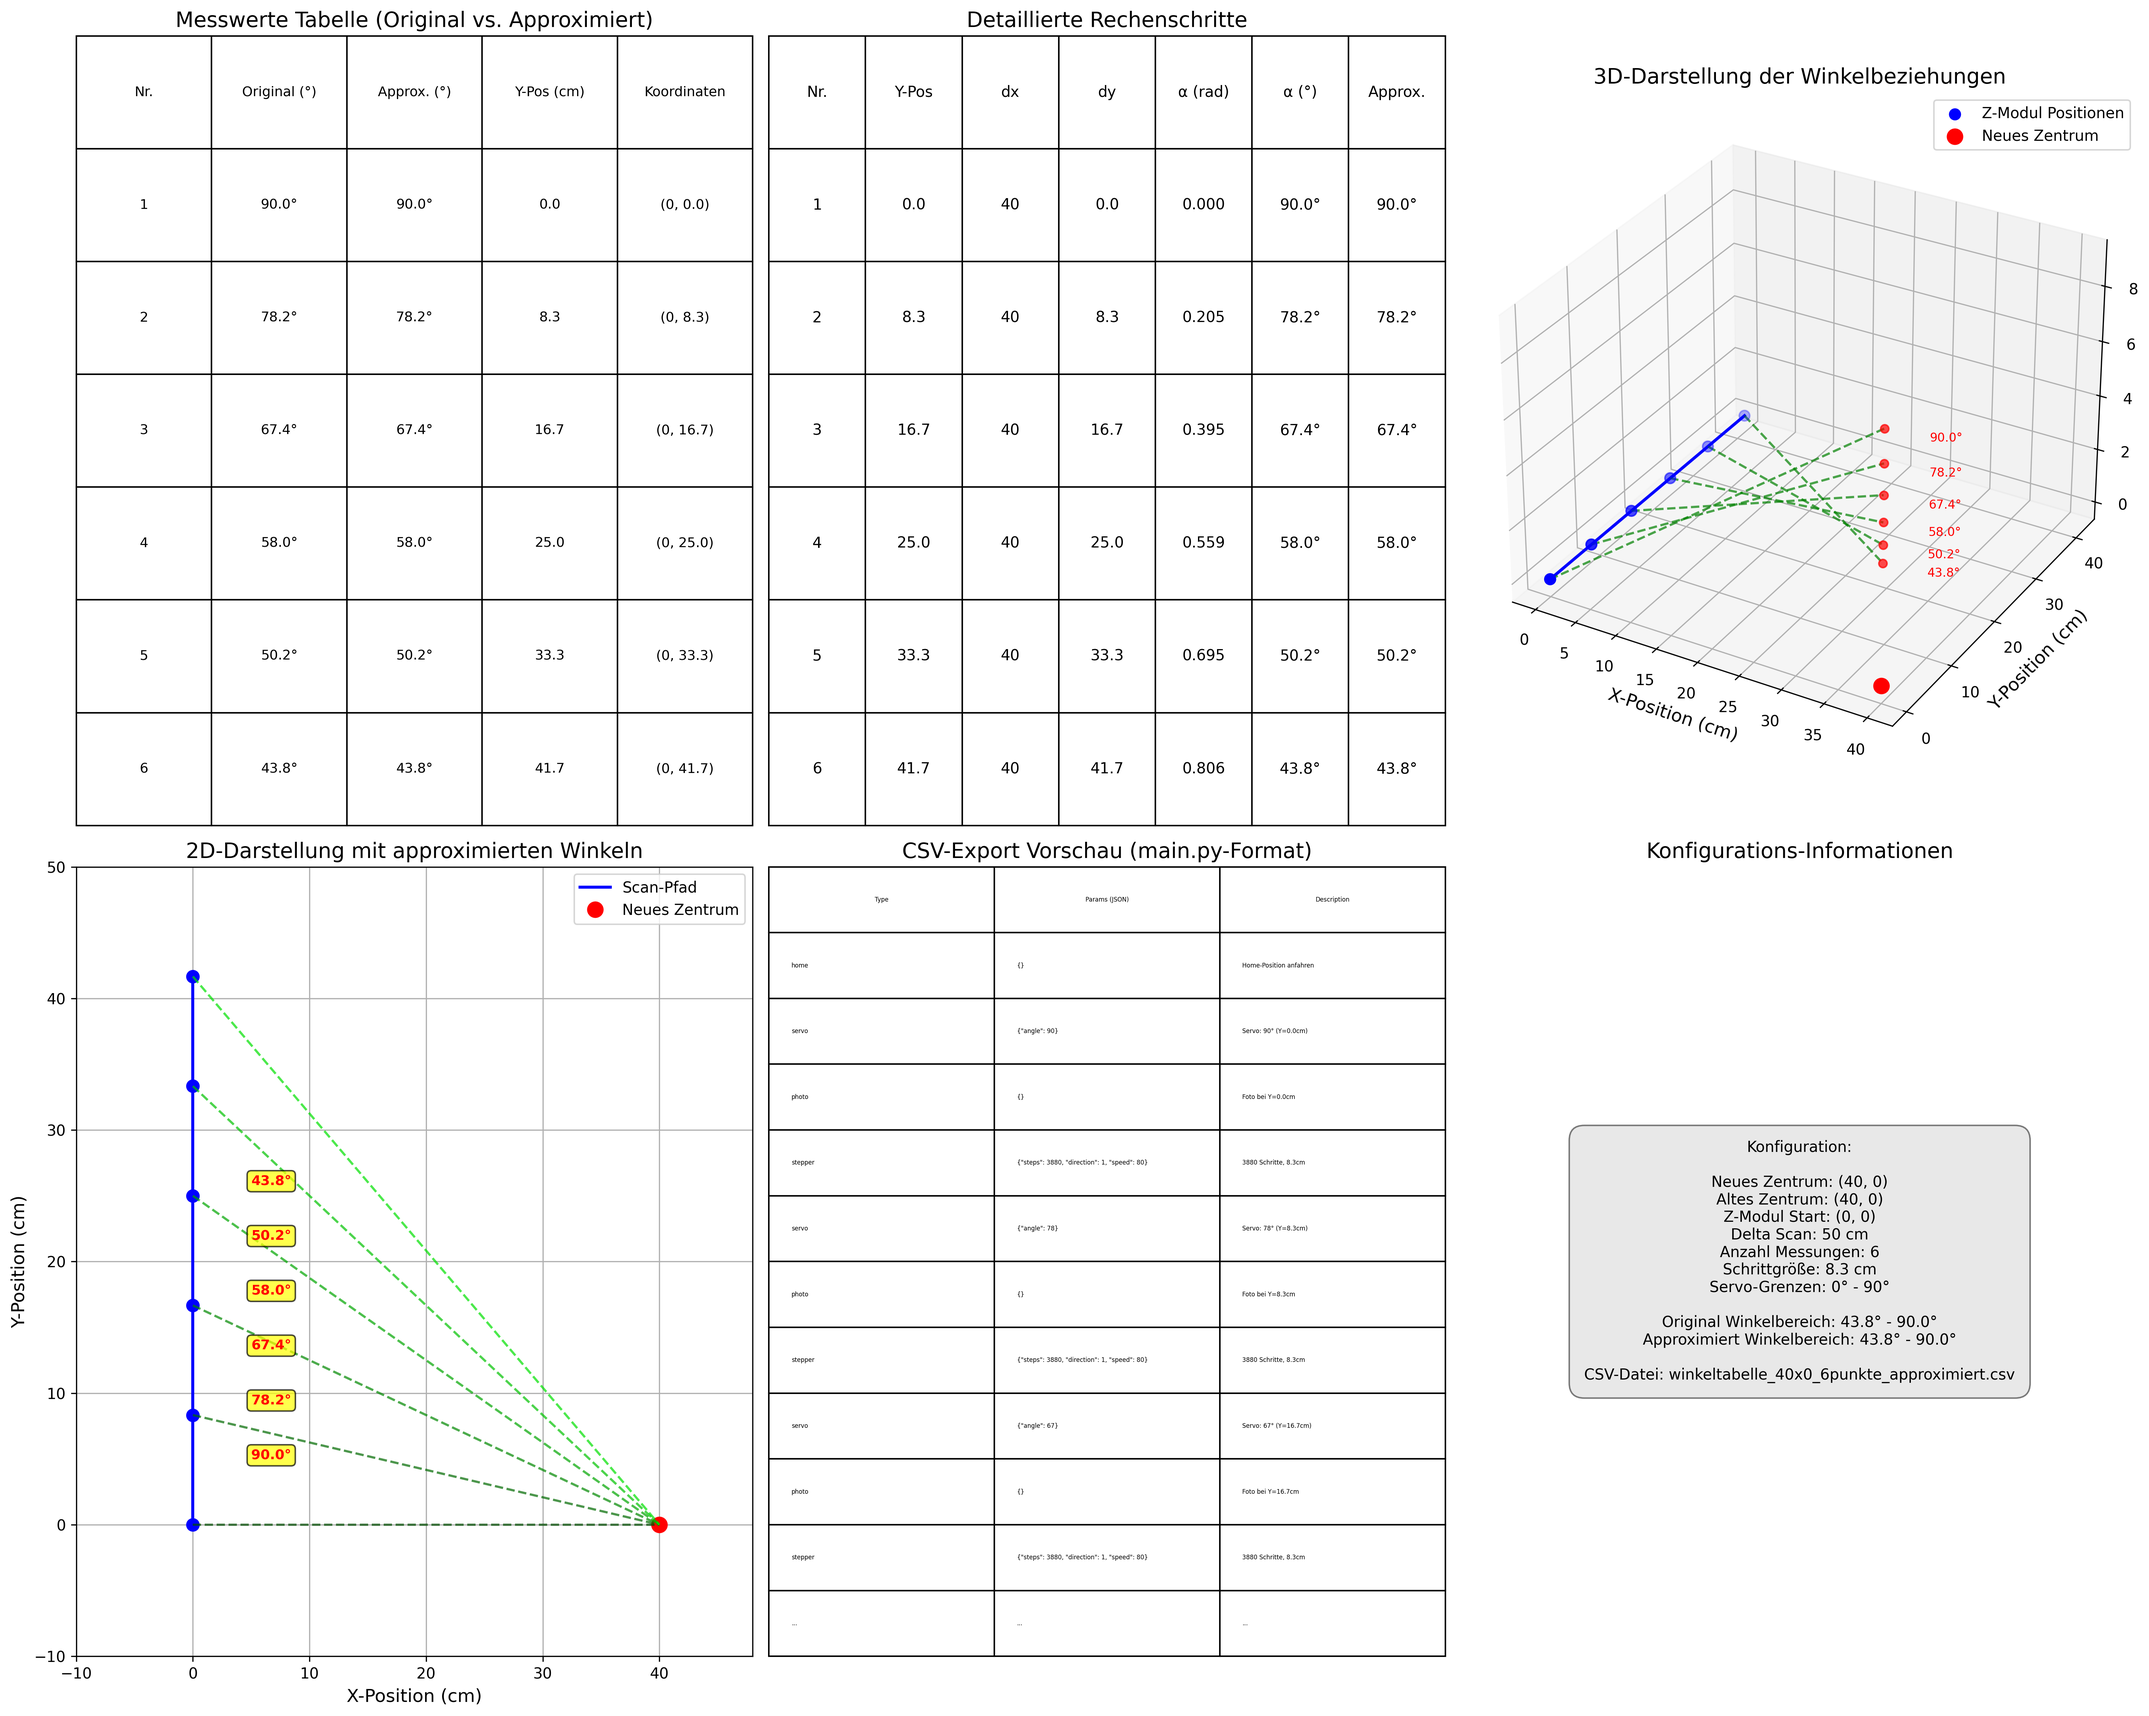
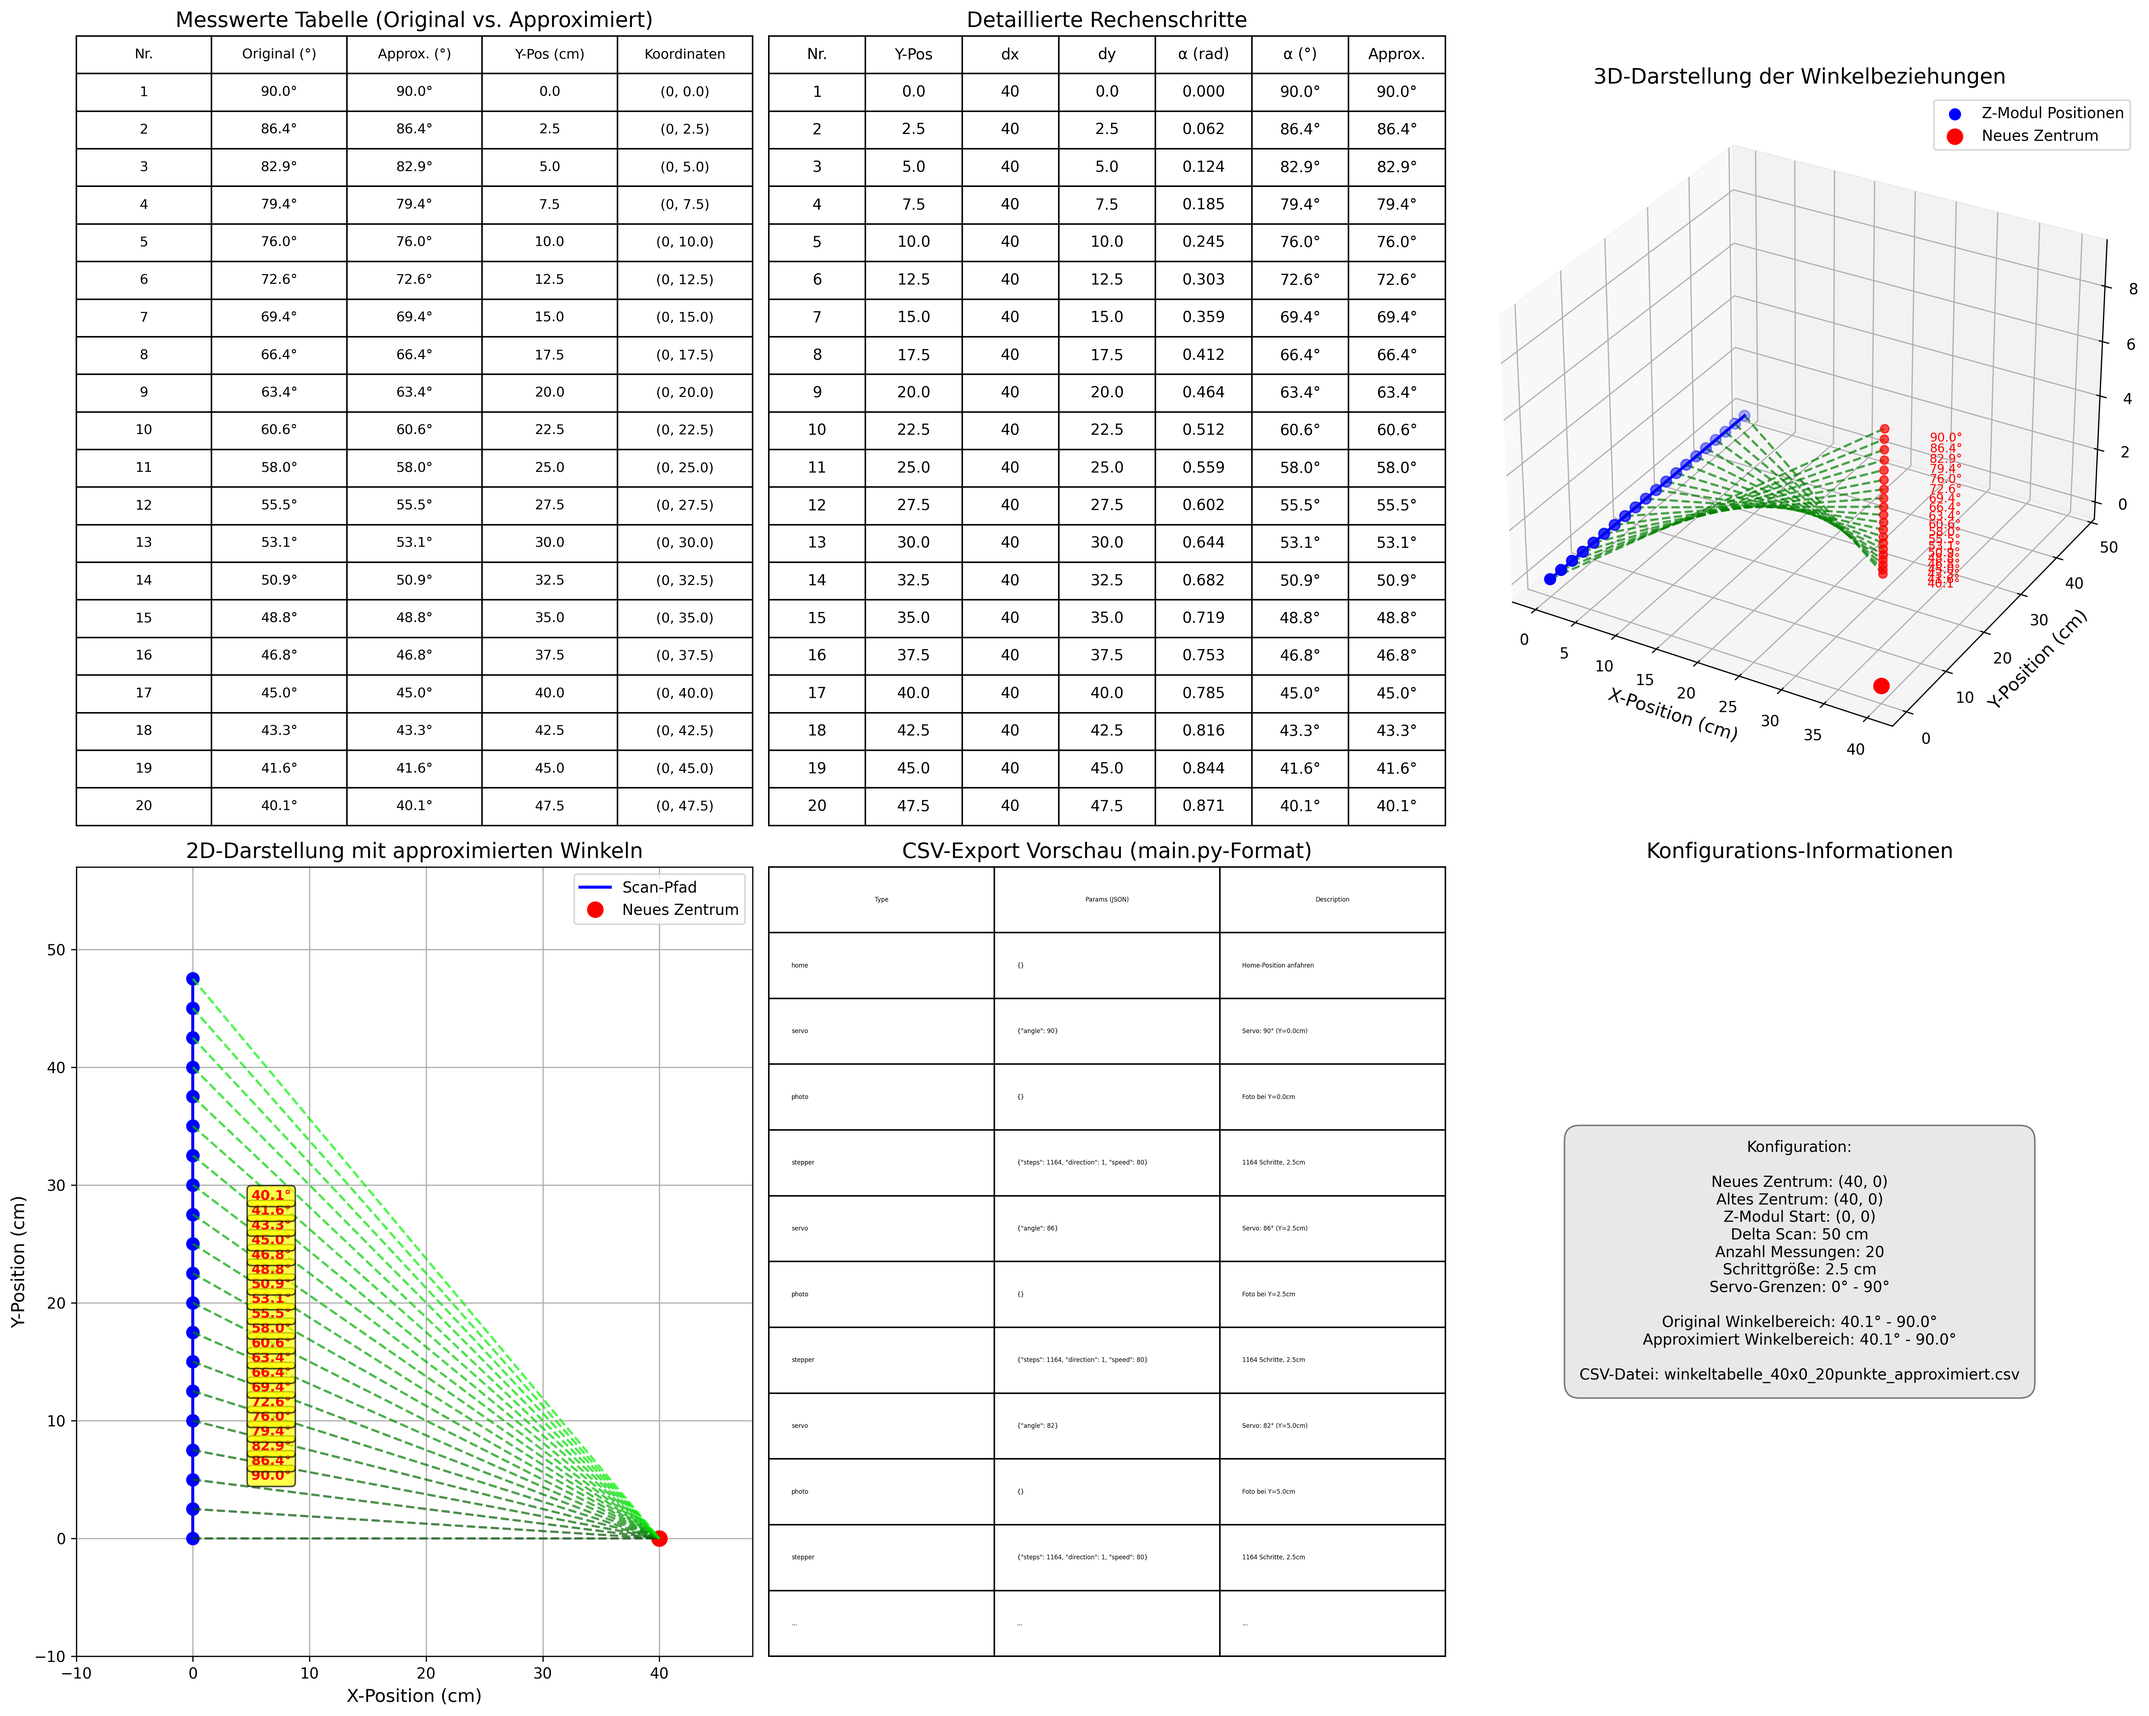
newest version commit

diff --git a/implementation/ControlScript/calculator/calculator_angle_table.py b/implementation/ControlScript/calculator/calculator_angle_table.py
@@ -35,8 +35,8 @@ Z_MODULE_X = 0            # X-Koordinate des Z-Moduls (bleibt fest)
 Z_MODULE_Y = 0            # Y-Koordinate des Z-Moduls (Startposition)
 
 # Scan-Konfiguration
-DELTA_SCAN = 150          # Gesamtstrecke des Scans in cm
-NUMBER_OF_MEASUREMENTS = 10  # Anzahl der Messpunkte
+DELTA_SCAN = 50          # Gesamtstrecke des Scans in cm
+NUMBER_OF_MEASUREMENTS = 20  # Anzahl der Messpunkte
 STEPPER_SPEED = 80        # Geschwindigkeit des Steppers
 
 # Servo-Winkel-Rechner initialisieren

diff --git a/implementation/ControlScript/calculator/calculator_simplified.py b/implementation/ControlScript/calculator/calculator_simplified.py
@@ -37,7 +37,7 @@ Z_MODULE_Y = 0            # Y-Koordinate des Z-Moduls (Startposition)
 
 # Scan-Konfiguration
 DELTA_SCAN = 50          # Gesamtstrecke des Scans in cm
-NUMBER_OF_MEASUREMENTS = 6  # Anzahl der Messpunkte
+NUMBER_OF_MEASUREMENTS = 20  # Anzahl der Messpunkte
 
 def calculate_angle(current_y):
     """

diff --git a/implementation/ControlScript/main.py b/implementation/ControlScript/main.py
@@ -22,7 +22,7 @@ from webcam_helper import WebcamHelper
 
 # Konstanten für Standardwerte und Berechnungen
 PI = 3.141592653589793
-DEFAULT_BASE_URL = "http://192.168.137.46"
+DEFAULT_BASE_URL = "http://192.168.137.170"
 DEFAULT_DIAMETER = "28"
 DEFAULT_SPEED = "80"
 DEFAULT_DISTANCE = "3.0"
